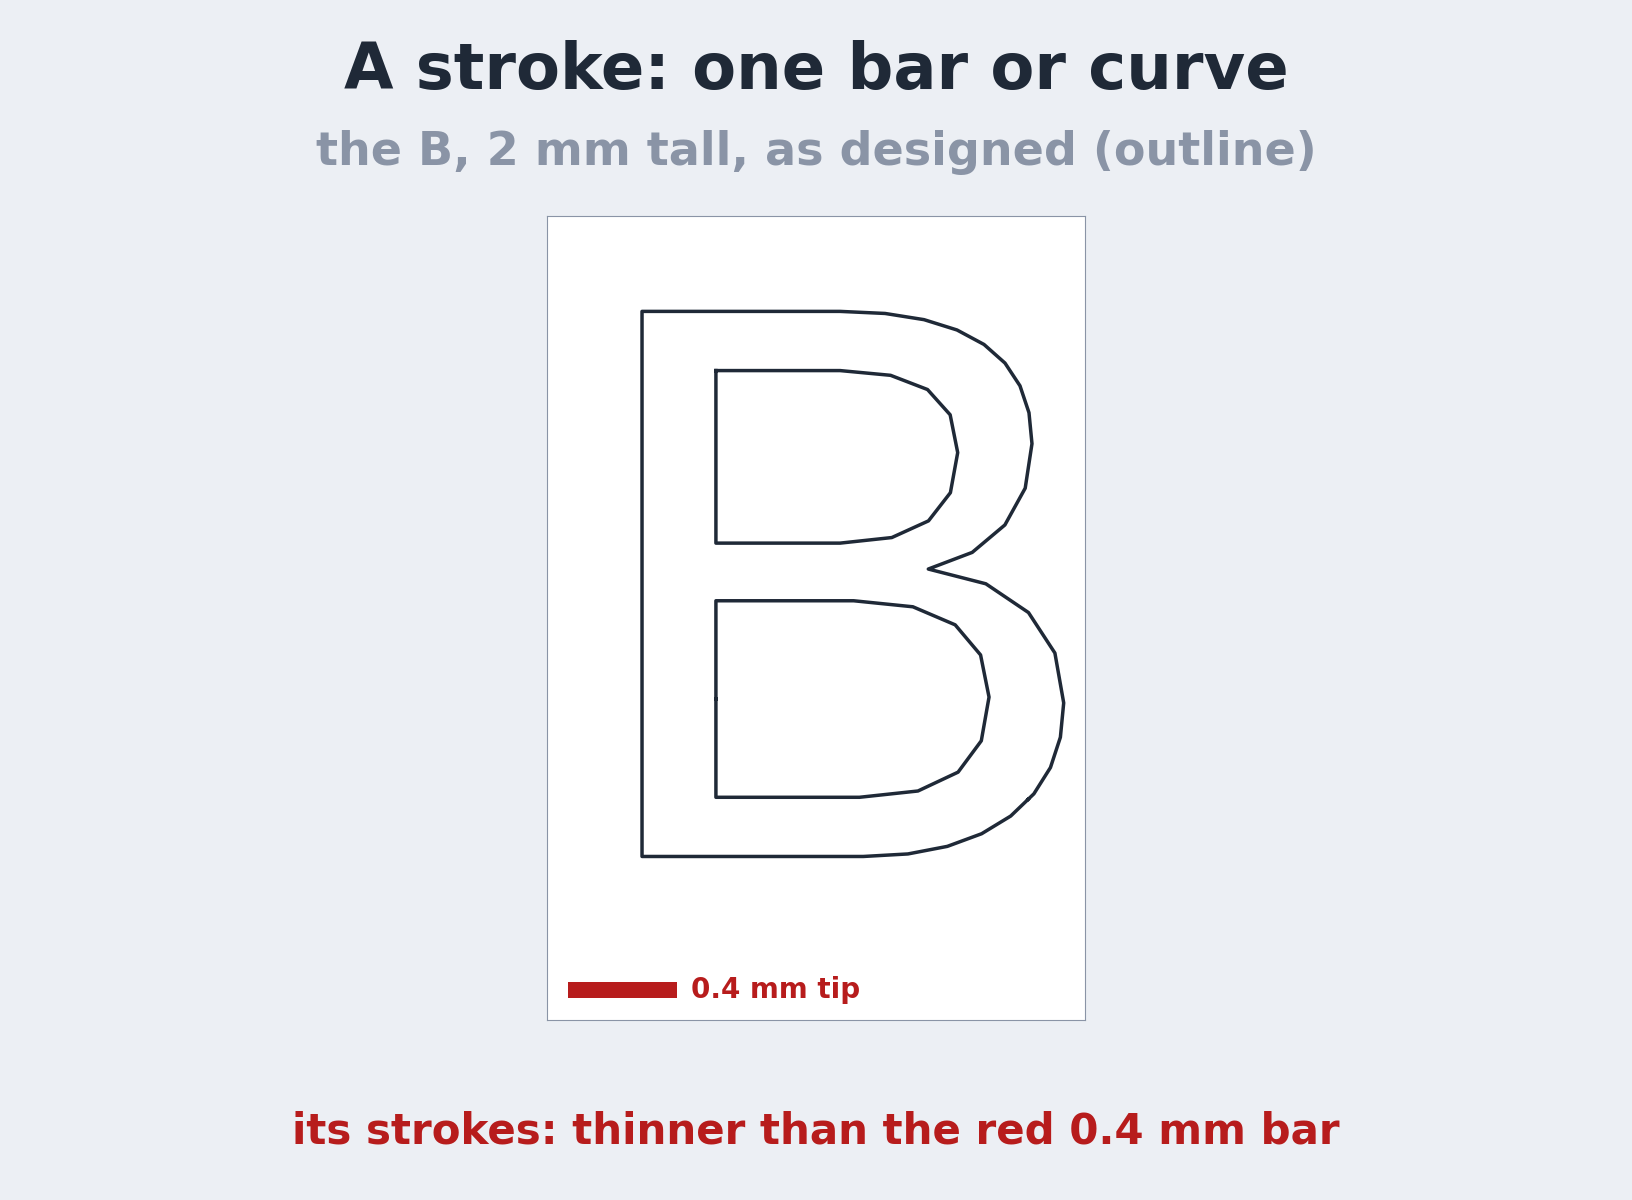
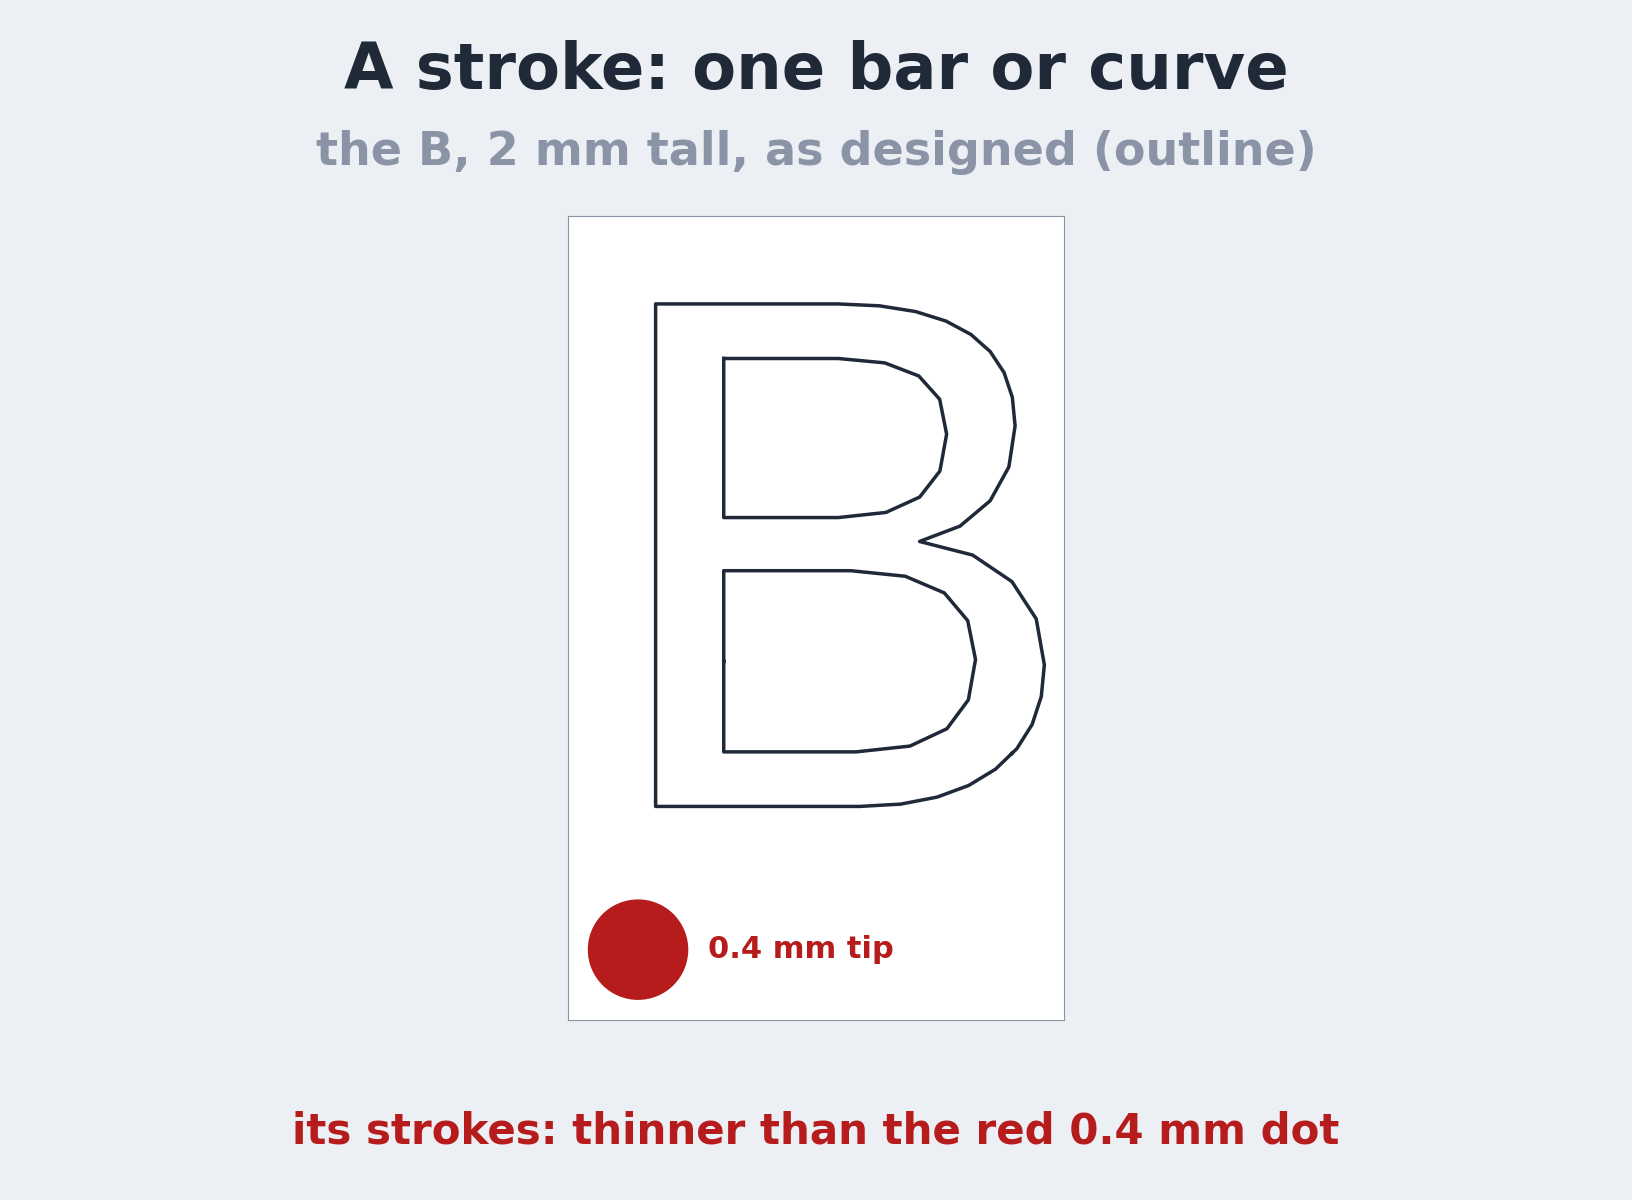
Nametag lab: cards round 2 (holes no longer paint over islands; 0.4 mm dot)

diff --git a/video/draw.py b/video/draw.py
@@ -54,13 +54,21 @@ def layer(case, z):
 
 
 def draw_geom(ax, g, fc=None, ec=INK, lw=1.5, alpha=1.0, z=1):
+    """Fill each polygon with its holes left open (one compound path per polygon, even-odd), so a hole never paints over
+    another polygon lying inside it (e.g. the plastic island inside an engraved B's groove)."""
+    from matplotlib.path import Path
+    from matplotlib.patches import PathPatch
     for p in G.parts(g):
-        for k, ring in enumerate([p.exterior] + list(p.interiors)):
+        rings = [p.exterior] + list(p.interiors)
+        if fc:
+            verts, codes = [], []
+            for ring in rings:
+                xy = list(ring.coords)
+                verts += xy
+                codes += [Path.MOVETO] + [Path.LINETO] * (len(xy) - 2) + [Path.CLOSEPOLY]
+            ax.add_patch(PathPatch(Path(verts, codes), fc=fc, ec='none', alpha=alpha, zorder=z))
+        for ring in rings:
             x, y = ring.xy
-            if fc and k == 0:
-                ax.fill(x, y, color=fc, alpha=alpha, lw=0, zorder=z)
-            elif fc:
-                ax.fill(x, y, color=BG, lw=0, zorder=z)
             ax.plot(x, y, color=ec, lw=lw, zorder=z + 1)
 
 
@@ -93,8 +101,9 @@ def panel(f, rect, case, z, window, show_design=True, show_plan=True, mode='rais
                     bbox=dict(fc='white', ec='none', alpha=0.8, pad=1))
     if bar:
         x0, y0 = window[0] + 0.08, window[1] + 0.08
-        ax.add_patch(Rectangle((x0, y0), 0.4, 0.06, fc=RED, ec='none', zorder=8))
-        ax.text(x0 + 0.45, y0 + 0.03, '0.4 mm tip', color=RED, fontsize=20, fontweight='bold', va='center', zorder=8)
+        from matplotlib.patches import Circle
+        ax.add_patch(Circle((x0 + 0.2, y0 + 0.2), 0.2, fc=RED, ec='none', zorder=8))
+        ax.text(x0 + 0.48, y0 + 0.2, '0.4 mm tip', color=RED, fontsize=22, fontweight='bold', va='center', zorder=8)
     ax.set_xlim(window[0], window[2])
     ax.set_ylim(window[1], window[3])
     ax.set_aspect('equal')
@@ -114,7 +123,7 @@ def letter_window(case, z, k=3, pad=0.35):
     row2 = sorted([p for p in pieces if p.centroid.y < -0.5 and p.area < 20], key=lambda p: p.centroid.x)
     x0, y0, x1, y1 = row2[k].bounds
     nxt = row2[k + 1].bounds[0] if k + 1 < len(row2) else x1 + pad
-    return (x0 - pad, y0 - pad - 0.25, min(x1 + pad, (x1 + nxt) / 2), y1 + pad)   # stop before the next letter; room for the bar
+    return (x0 - pad, y0 - pad - 0.5, min(x1 + pad, (x1 + nxt) / 2), y1 + pad)   # stop before the next letter; room for the bar
 
 
 B2 = None
@@ -315,7 +324,7 @@ def why():
     text(f, W * 0.75, 160, '3 mm', 56, INK)
     text(f, W * 0.27, 980, f'+{(lo2 - 1) * 100:.0f} to +{(hi2 - 1) * 100:.0f}%', 56, RED)
     text(f, W * 0.75, 980, f'+{(lo3 - 1) * 100:.0f} to +{(hi3 - 1) * 100:.0f}%', 56, GREEN)
-    text(f, W / 2, 1110, 'the B, same scale · planned vs drawn, GYM BAG row', 36, GREY)
+    text(f, W / 2, 1110, 'the B, same scale · red dot = 0.4 mm tip', 40, GREY)
     save(f, 'card-why.png')
 
 
@@ -327,7 +336,7 @@ def stroke_card():
     text(f, W / 2, 40, 'A stroke: one bar or curve', 64)
     text(f, W / 2, 130, 'the B, 2 mm tall, as designed (outline)', 46, GREY)
     panel(f, [0.25, 0.15, 0.5, 0.67], 'raised-h2', 3.6, letter_window('raised-h2', 3.6), show_plan=False, outline_only=True, bar=True)
-    text(f, W / 2, 1110, 'its strokes: thinner than the red 0.4 mm bar', 42, RED)
+    text(f, W / 2, 1110, 'its strokes: thinner than the red 0.4 mm dot', 42, RED)
     save(f, 'card-stroke.png')
 
 
